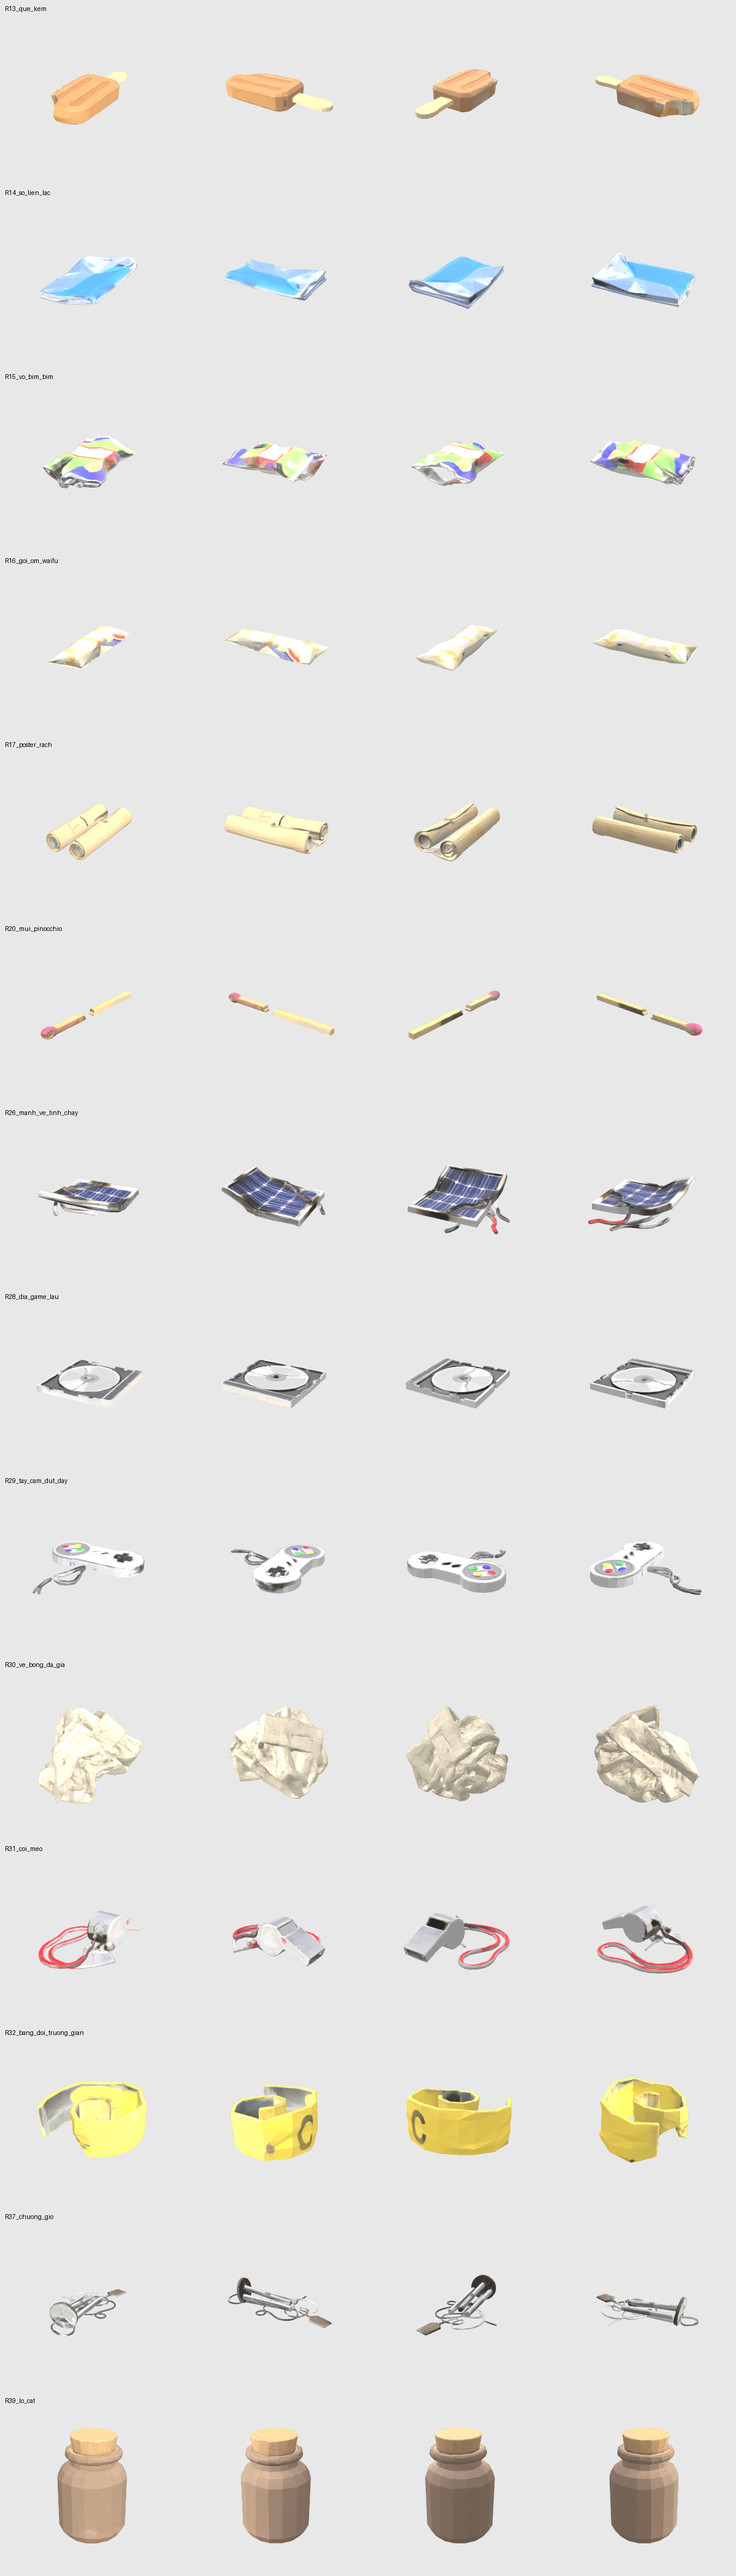
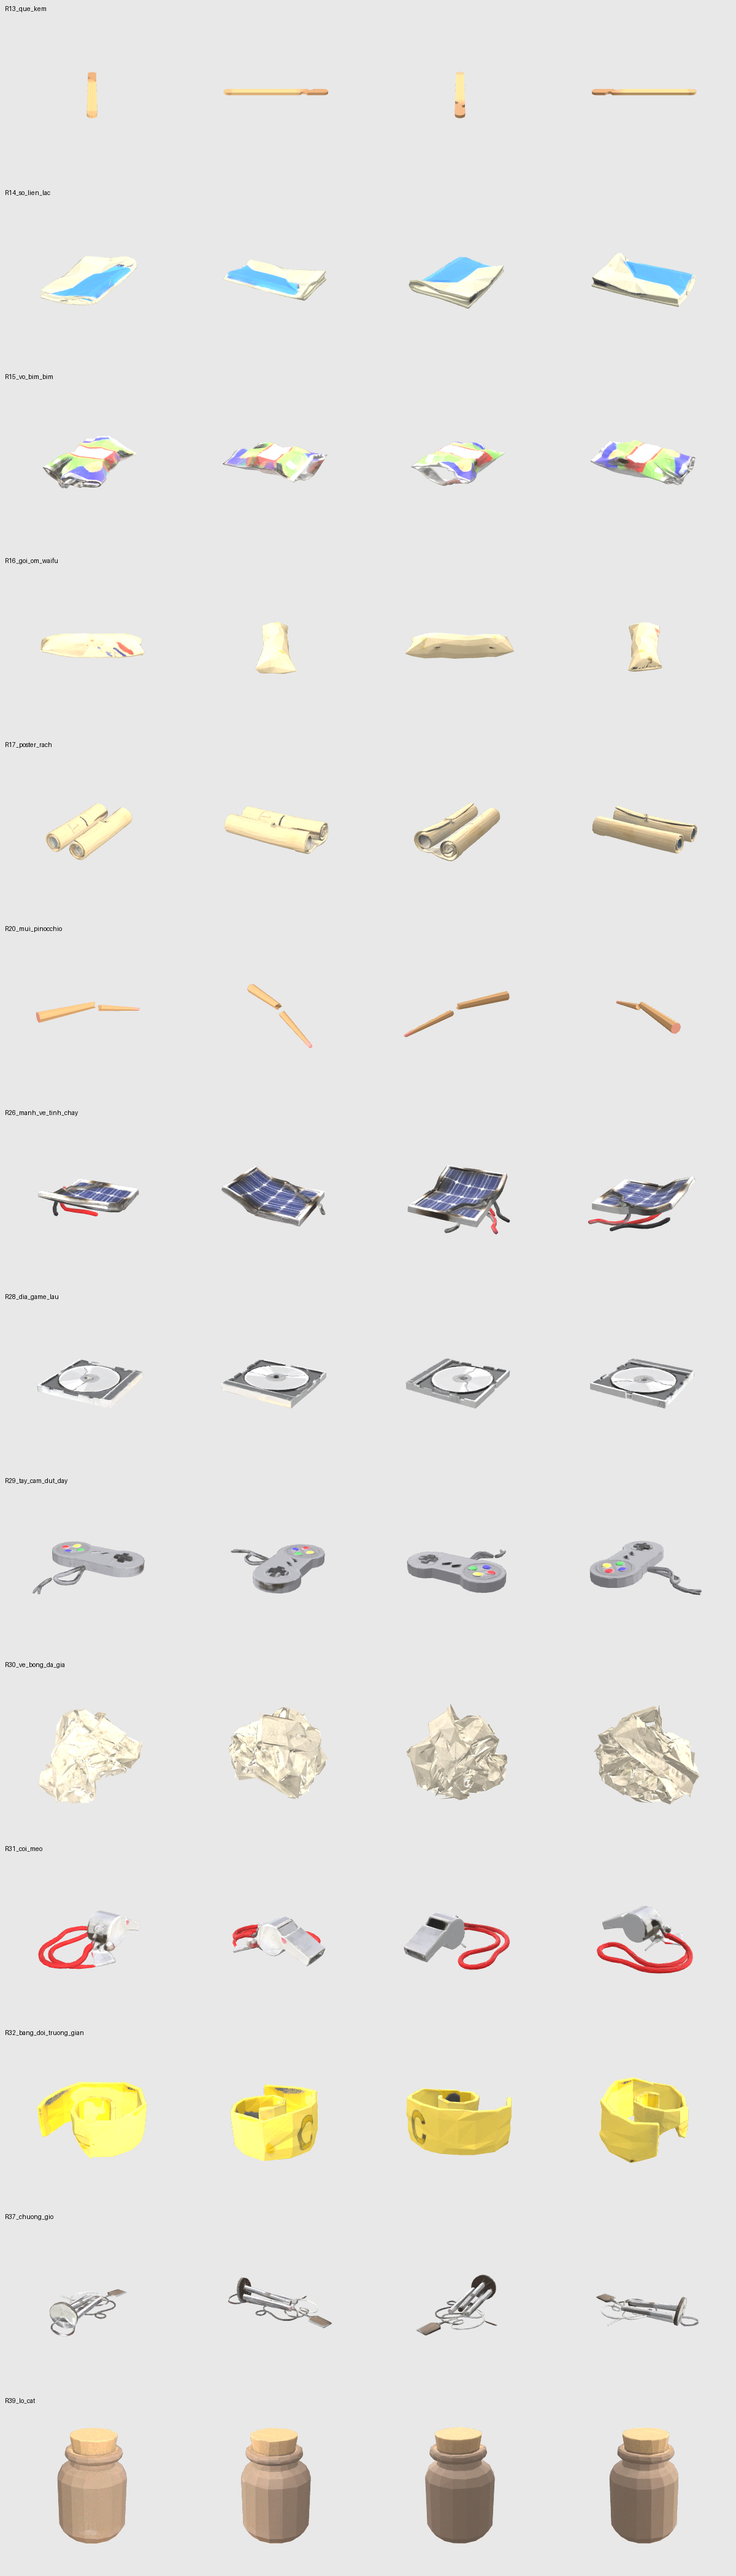
art: fix junk batch 3 shapes in Blender and recolor by region
Claude-Session: https://claude.ai/code/session_01QKQCdaHXz1ABtk3AJ5hwmv

diff --git a/Tools/Meshy/blender/sua_rac.py b/Tools/Meshy/blender/sua_rac.py
@@ -1,0 +1,198 @@
+# Sua hinh dang mon Rac bang Blender (bpy), khong ton credit.
+# Chay: python3 sua_rac.py <ma> vao.glb ra.glb   (vao.glb bo qua voi mon dung moi: R13, R20)
+# Can: pip install bpy (Blender dang module Python).
+#  R13 que kem: dung lai que go da liem sach (Meshy ve ca cay kem), dau bo tron, vet can, vet kem sot.
+#  R20 mui Pinocchio: dung lai mui go thuon nhon gay doi, mat gay lom chom, dau hong (ban Meshy giong que diem).
+#  R16 goi om: xoay thang theo truc dai, lam day (ban Meshy det, nam cheo).
+#  R30 ve vo vien: giam luoi con ~1/4 (ban Meshy ~9,9 nghin tam giac).
+import sys, math, random, bpy, bmesh, numpy as np
+from mathutils import Vector, Matrix
+
+code, src, dst = sys.argv[1:4]
+random.seed(7)
+bpy.ops.wm.read_factory_settings(use_empty=True)
+
+
+def make_image(name, px):  # px: H x W x 3 (0..1), hang 0 = tren cung
+    H, W = px.shape[:2]
+    img = bpy.data.images.new(name, W, H)
+    rgba = np.ones((H, W, 4), np.float32)
+    rgba[..., :3] = px[::-1]  # Blender luu tu duoi len
+    img.pixels.foreach_set(rgba.ravel())
+    img.pack()
+    return img
+
+
+def textured_material(img):
+    mat = bpy.data.materials.new("mat")
+    mat.use_nodes = True
+    nt = mat.node_tree
+    bsdf = nt.nodes["Principled BSDF"]
+    bsdf.inputs["Roughness"].default_value = 0.8
+    bsdf.inputs["Metallic"].default_value = 0.0
+    tex = nt.nodes.new("ShaderNodeTexImage")
+    tex.image = img
+    tex.interpolation = "Closest"
+    nt.links.new(tex.outputs["Color"], bsdf.inputs["Base Color"])
+    return mat
+
+
+def obj_from_bm(bm, name):
+    me = bpy.data.meshes.new(name)
+    bm.to_mesh(me)
+    ob = bpy.data.objects.new(name, me)
+    bpy.context.collection.objects.link(ob)
+    return ob
+
+
+def finish(ob):
+    """Tam giua, day y=0 (truc Y cua glTF = truc Z Blender)."""
+    me = ob.data
+    co = np.array([v.co[:] for v in me.vertices])
+    lo, hi = co.min(0), co.max(0)
+    off = Vector((-(lo[0] + hi[0]) / 2, -(lo[1] + hi[1]) / 2, -lo[2]))
+    me.transform(Matrix.Translation(off))
+    me.update()
+
+
+def wood_strip(W, H, base, grain=0.06):
+    px = np.ones((H, W, 3)) * np.array(base)
+    for x in range(W):  # van go doc theo chieu dai
+        px[:, x] *= 1 - grain * (0.5 + 0.5 * math.sin(x * 1.7 + random.random()))
+    return px
+
+
+if code == "R13":
+    # Que kem 114 x 10 x 3 mm, hai dau bo tron, 2 vet can o dau tren.
+    L, Wd, T, seg = 0.114, 0.010, 0.003, 6
+    r = Wd / 2
+    pts = []
+    for i in range(seg + 1):  # dau duoi (y am)
+        a = math.pi + math.pi * i / seg
+        pts.append((r * math.cos(a), -L / 2 + r + r * math.sin(a)))
+    top = []
+    for i in range(seg + 1):  # dau tren (y duong)
+        a = math.pi * i / seg
+        top.append((r * math.cos(a), L / 2 - r + r * math.sin(a)))
+    # vet can: lom vao o canh phai va trai gan dau tren
+    for side, y0 in ((1, 0.030), (-1, 0.038)):
+        pts_bite = [(side * r, y0 - 0.004), (side * r * 0.35, y0 - 0.0015), (side * r * 0.45, y0 + 0.001), (side * r, y0 + 0.004)]
+        if side == 1:
+            pts += pts_bite
+        else:
+            top_after = pts_bite[::-1]
+    outline = pts + top + top_after
+    bm = bmesh.new()
+    vs = [bm.verts.new((x, y, 0)) for x, y in outline]
+    f = bm.faces.new(vs)
+    ext = bmesh.ops.extrude_face_region(bm, geom=[f])
+    for v in ext["geom"]:
+        if isinstance(v, bmesh.types.BMVert):
+            v.co.z += T
+    bmesh.ops.triangulate(bm, faces=bm.faces[:])
+    bmesh.ops.recalc_face_normals(bm, faces=bm.faces[:])
+    # UV chieu tu tren: u theo be ngang, v theo chieu dai
+    uv = bm.loops.layers.uv.new()
+    for fa in bm.faces:
+        for lp in fa.loops:
+            lp[uv].uv = ((lp.vert.co.x + r) / (2 * r), (lp.vert.co.y + L / 2) / L)
+    ob = obj_from_bm(bm, "R13_que_kem")
+    px = wood_strip(16, 128, (0.78, 0.62, 0.40))
+    px[:28] = px[:28] * 0.6 + np.array([0.45, 0.25, 0.16]) * 0.4  # vet kem socola sot o dau tren, nhat
+    for y in range(28, 40):
+        k = (40 - y) / 12 * 0.4
+        px[y] = px[y] * (1 - k) + np.array([0.55, 0.32, 0.22]) * k
+    px[118:] *= 0.9  # dau cam hoi ban
+    ob.data.materials.append(textured_material(make_image("r13", px)))
+    ob.rotation_euler = (0, 0, math.radians(35))
+
+elif code == "R20":
+    # Mui go dai 25 cm thuon nhon, 8 canh, gay o 55%, hai doan nam lech nhau.
+    L, r0, r1, n = 0.25, 0.012, 0.004, 8
+    cut = 0.55
+
+    def piece(z0, z1, jag_lo, jag_hi, name):
+        bm = bmesh.new()
+        rings = []
+        steps = 6
+        for s in range(steps + 1):
+            t = z0 + (z1 - z0) * s / steps
+            rad = r0 + (r1 - r0) * t
+            ring = []
+            for k in range(n):
+                a = 2 * math.pi * k / n
+                zz = t * L
+                if (s == 0 and jag_lo) or (s == steps and jag_hi):
+                    zz += random.uniform(-0.006, 0.006)  # mat gay lom chom
+                ring.append(bm.verts.new((rad * math.cos(a), rad * math.sin(a), zz)))
+            rings.append(ring)
+        for a_, b_ in zip(rings, rings[1:]):
+            for k in range(n):
+                bm.faces.new((a_[k], a_[(k + 1) % n], b_[(k + 1) % n], b_[k]))
+        bm.faces.new(rings[0][::-1])
+        last = rings[-1]
+        if z1 >= 1.0:  # dau mui: chop tron
+            tip = bm.verts.new((0, 0, L + 0.004))
+            for k in range(n):
+                bm.faces.new((last[k], last[(k + 1) % n], tip))
+        else:
+            bm.faces.new(last)
+        bmesh.ops.triangulate(bm, faces=bm.faces[:])
+        bmesh.ops.recalc_face_normals(bm, faces=bm.faces[:])
+        uv = bm.loops.layers.uv.new()
+        for fa in bm.faces:
+            for lp in fa.loops:
+                c = lp.vert.co
+                lp[uv].uv = ((math.atan2(c.y, c.x) / (2 * math.pi)) % 1.0, min(max(c.z / (L + 0.004), 0), 1))
+        return obj_from_bm(bm, name)
+
+    a = piece(0.0, cut, False, True, "goc")
+    b = piece(cut, 1.0, True, False, "ngon")
+    # tach doan ngon ra, xoay lech
+    b.location = (0.012, 0.0, 0.018)
+    b.rotation_euler = (0, 0, 0)
+    b.data.transform(Matrix.Translation((0, 0, -cut * L)))
+    b.data.transform(Matrix.Rotation(math.radians(14), 4, "Y"))
+    b.data.transform(Matrix.Translation((0, 0, cut * L)))
+    px = wood_strip(16, 128, (0.70, 0.52, 0.33))
+    for y in range(0, 14):  # dau mui hong (hang tren = v cao = dau mui)
+        k = (14 - y) / 14
+        px[y] = px[y] * (1 - k) + np.array([0.86, 0.48, 0.48]) * k
+    mat = textured_material(make_image("r20", px))
+    for o in (a, b):
+        o.data.materials.append(mat)
+    bpy.ops.object.select_all(action="DESELECT")
+    a.select_set(True); b.select_set(True)
+    bpy.context.view_layer.objects.active = a
+    bpy.ops.object.join()
+    ob = a
+    bpy.ops.object.transform_apply(location=True, rotation=True, scale=True)
+    # nam ngang tren san: truc dai Z -> X
+    ob.data.transform(Matrix.Rotation(math.radians(90), 4, "Y"))
+    ob.data.transform(Matrix.Rotation(math.radians(30), 4, "Z"))
+
+else:
+    bpy.ops.import_scene.gltf(filepath=src)
+    ob = [o for o in bpy.context.scene.objects if o.type == "MESH"][0]
+    bpy.context.view_layer.objects.active = ob
+    ob.select_set(True)
+    bpy.ops.object.transform_apply(location=True, rotation=True, scale=True)
+    if code == "R16":
+        co = np.array([v.co[:] for v in ob.data.vertices])
+        xy = co[:, :2] - co[:, :2].mean(0)
+        w, e = np.linalg.eigh(np.cov(xy.T))
+        ang = math.atan2(e[1, 1], e[0, 1])
+        ob.data.transform(Matrix.Rotation(-ang, 4, "Z"))  # truc dai -> X
+        co = np.array([v.co[:] for v in ob.data.vertices])
+        ext = co.max(0) - co.min(0)
+        ob.data.transform(Matrix.Diagonal((1.0 / ext[0], 0.34 / ext[1], 0.20 / ext[2], 1)))  # 1 m x 34 cm x 20 cm
+    elif code == "R30":
+        m = ob.modifiers.new("giam", "DECIMATE")
+        m.ratio = 0.25
+        bpy.ops.object.modifier_apply(modifier="giam")
+    ob.data.update()
+
+finish(ob)
+bpy.ops.object.select_all(action="SELECT")
+bpy.ops.export_scene.gltf(filepath=dst, export_format="GLB", use_selection=True)
+print(code, "tris", sum(len(p.vertices) - 2 for p in ob.data.polygons))

diff --git a/Tools/Meshy/retex/fix_rac.py b/Tools/Meshy/retex/fix_rac.py
@@ -13,6 +13,39 @@ if code=="R25":   # mu giay bac: xoa dom moc xanh (lem tu banh bao), to mau bac
         g=px[:,1]-np.maximum(px[:,0],px[:,2])  # xanh la troi hon do va lam
         out=px.copy();bad=g>6;out[bad]=silver;print("pixels",bad.sum(),"silver",silver.round());return out
     tex=paint(tex,P,fix)
+def recolor_faces(faces,rgb,keep_dark=None):
+    """To mat chon bang mau rgb, giu sang toi theo do sang cu (de con nep nhan)."""
+    global tex
+    def f(px):
+        l=px.mean(1,keepdims=True)/255.;out=np.array(rgb)*(0.55+0.6*l)
+        if keep_dark is not None: out=np.where(l<keep_dark,px,out)
+        return out
+    tex=paint(tex,[P[i] for i in faces],f)
+def grey_bright(px,rgb,smax=0.25,vmin=0.5):
+    """Diem anh trang bac (it mau, sang) -> mau rgb, giu sang toi."""
+    a=px/255.;mx=a.max(1);s=(mx-a.min(1))/np.maximum(mx,1e-6);sel=(s<smax)&(mx>vmin)
+    out=px.copy();out[sel]=np.array(rgb)*(0.6+0.45*mx[sel,None]);print("pixels",sel.sum());return out
+def parts():
+    t=trimesh.Trimesh(m.vertices,m.faces,process=False);t.merge_vertices(merge_tex=True,merge_norm=True,digits_vertex=5)
+    return sorted(trimesh.graph.connected_components(t.face_adjacency,min_len=1),key=len,reverse=True)
+allf=range(len(P))
+if code=="R14":   # so lien lac: mep giay trang bac -> giay ngà
+    tex=paint(tex,P,lambda px:grey_bright(px,(225,215,190)))
+if code=="R16":   # goi om: vet bong trang bac -> vai kem
+    tex=paint(tex,P,lambda px:grey_bright(px,(225,215,195),0.3,0.4))
+if code=="R29":   # tay cam: than trang bac -> xam
+    tex=paint(tex,P,lambda px:grey_bright(px,(150,150,155),0.2,0.45))
+if code=="R32":   # bang doi truong: mat trong bac -> vang, giu chu C toi
+    tex=paint(tex,P,lambda px:grey_bright(px,(235,205,60),0.35,0.45))
+if code=="R26":   # tam pin: 2 bo day roi -> do va den
+    pp=parts()
+    recolor_faces(pp[1],(170,30,30));recolor_faces(pp[2],(35,35,38))
+if code=="R31":   # coi: day deo con doan trang -> do; than coi (da giac XZ) giu nguyen
+    c=m.triangles_center;lo=c.min(0);s=500/max(m.extents)
+    q=(c[:,[0,2]]-lo[[0,2]])*s+50
+    mk=Image.new("L",(600,600),0);ImageDraw.Draw(mk).polygon([(262,285),(440,45),(560,130),(410,380),(410,480),(300,480),(300,380)],fill=1)
+    mk=np.asarray(mk);inside=mk[np.clip(q[:,1].astype(int),0,599),np.clip(q[:,0].astype(int),0,599)]>0
+    recolor_faces(np.where(~inside)[0],(190,35,40))
 # Chinh mau tung mon: (do sang, do dam mau, tong mau RGB, tuong phan)
 TONE={
  "R27":(0.85,1.2,(1,1,1),1.1),        # the nho
@@ -31,12 +64,10 @@ TONE={
  "R49":(0.95,1.4,(1,1,1),1.1),        # hop bento
  "R50":(0.85,1.7,(1,1,1),1.1),        # o giay do
  # dot 3 (lam lai 13 mon + R26)
- "R13":(0.95,1.2,(1,0.97,0.9),1.1),   # que kem go
  "R14":(0.85,2.0,(0.88,0.95,1.1),1.15),# so lien lac: bia xanh dam hon
  "R15":(0.95,1.3,(1,1,1),1.1),        # vo bim bim
  "R16":(0.9,1.2,(1,0.96,0.86),1.1),   # goi om: trang ngả vang o
  "R17":(0.85,1.2,(1,0.94,0.82),1.1),  # poster: giay ngả vang
- "R20":(0.9,1.3,(1,0.93,0.8),1.1),    # mui go
  "R26":(0.85,1.3,(1,1,1),1.2),        # tam pin chay
  "R28":(0.9,1.0,(1,1,1),1.15),        # dia game
  "R29":(0.9,1.0,(1,1,1),1.15),        # tay cam xam

diff --git a/Docs/Art/BanGiao3D.md b/Docs/Art/BanGiao3D.md
@@ -366,20 +366,22 @@ Còn lại: xem danh sách làm lại; 7 Thường và 5 Hiếm mới chưa làm
 
 | Mã | Món | Rương | Tình trạng |
 |---|---|---|---|
-| R13 | Que kem đã liếm sạch | Tuổi thơ Việt Nam | Có; Meshy vẽ cây kem còn kem (có vết cắn), chưa "liếm sạch" |
-| R14 | Sổ liên lạc | Tuổi thơ Việt Nam | Có, bìa xanh nhàu, mất chữ ký |
+| R13 | Que kem đã liếm sạch | Tuổi thơ Việt Nam | Có; dựng lại bằng Blender (que gỗ trơn 11,4 cm, 2 vết cắn, vệt kem sót), 84 tam giác |
+| R14 | Sổ liên lạc | Tuổi thơ Việt Nam | Có, bìa xanh nhàu; mép giấy bạc đã tô ngà; chưa có chữ ký |
 | R15 | Vỏ bim bim | Tuổi thơ Việt Nam | Có, nhàu, xé miệng, không nhãn hãng |
-| R16 | Gối ôm waifu bạc màu | Wibu | Có, dài 1 m, dẹt, ố màu, hình in mờ (không nhân vật thật) |
+| R16 | Gối ôm waifu bạc màu | Wibu | Có; Blender xoay thẳng, làm dày 1 m × 34 × 20 cm; vệt bóng bạc tô kem; hình in mờ (không nhân vật thật) |
 | R17 | Poster rách | Wibu | Có, hai ống cuộn |
-| R20 | Mũi Pinocchio gãy | Truyền thuyết Châu Âu | Có, que gãy đôi đầu hồng (gộp 2 mảnh), giống que diêm |
-| R26 | Mảnh vệ tinh cháy | Không gian | Có, tấm pin cong cháy mép, lòi dây (gộp 3 mảnh) |
+| R20 | Mũi Pinocchio gãy | Truyền thuyết Châu Âu | Có; dựng lại bằng Blender (mũi gỗ thuôn 8 cạnh, gãy đôi lởm chởm, chóp hồng), 218 tam giác |
+| R26 | Mảnh vệ tinh cháy | Không gian | Có, tấm pin cong cháy mép, lòi dây (gộp 3 mảnh); dây tô đỏ và đen |
 | R28 | Đĩa game lậu (hư) | Game | Có, đĩa nứt trong hộp vỡ, dẹt |
-| R29 | Tay cầm đứt dây | Game | Có, gộp dây đứt |
-| R30 | Vé bóng đá giả | Thể thao | Có, vo viên (gộp 4 mảnh), ~9,9 nghìn tam giác (nặng nhất đợt) |
-| R31 | Còi méo | Thể thao | Có, dây đỏ |
-| R32 | Băng đội trưởng giãn chun | Thể thao | Có, cuộn xoắn, chữ C |
+| R29 | Tay cầm đứt dây | Game | Có, gộp dây đứt; thân trắng bạc tô xám |
+| R30 | Vé bóng đá giả | Thể thao | Có, vo viên (gộp 4 mảnh); Blender giảm lưới 9,9 → 2,5 nghìn tam giác |
+| R31 | Còi méo | Thể thao | Có; đoạn dây trắng tô đỏ |
+| R32 | Băng đội trưởng giãn chun | Thể thao | Có, cuộn xoắn, chữ C; mặt trong bạc tô vàng |
 | R37 | Chuông gió | Phim kinh dị | Có, nằm, dây rối (gộp ống rời) |
 | R39 | Lọ cát | Ai Cập cổ đại | Có, lọ gốm nút bần |
+
+**Sửa sau kiểm tra (không tốn credit):** hình dáng sửa bằng Blender (`Tools/Meshy/blender/sua_rac.py <mã> vào.glb ra.glb`, cần `pip install bpy`): R13, R20 dựng mới; R16 xoay và làm dày; R30 giảm lưới. Màu sửa theo vùng trong `retex/fix_rac.py` (chọn điểm ảnh trắng bạc, theo mảnh rời hoặc theo vùng mặt bằng): R14, R16, R26, R29, R31, R32. Thứ tự: Blender trước, `fix_rac.py` sau. Đã rà màu cả 14 món: R15 mặt trong bạc là giấy bạc thật, R28 hộp xám bạc, R37 dây trắng mảnh, giữ nguyên.
 
 ## Danh sách làm lại
 
